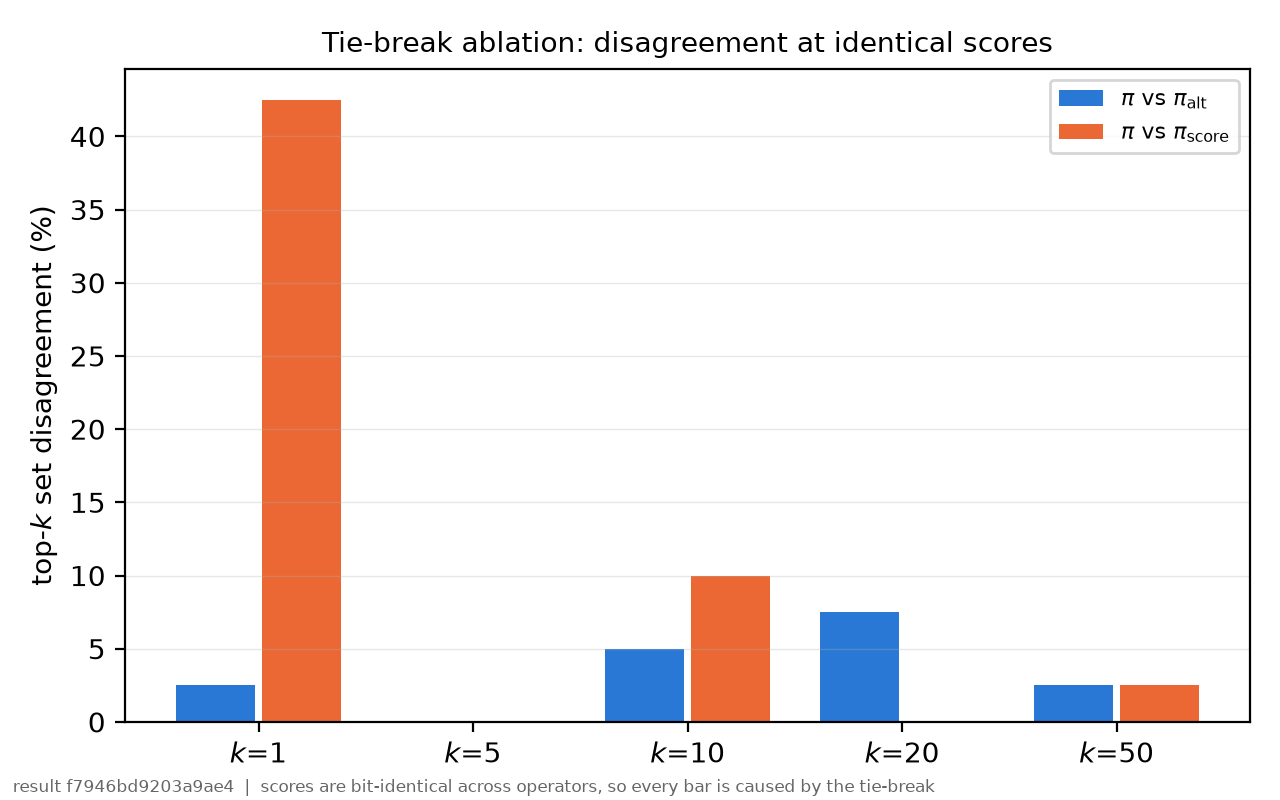
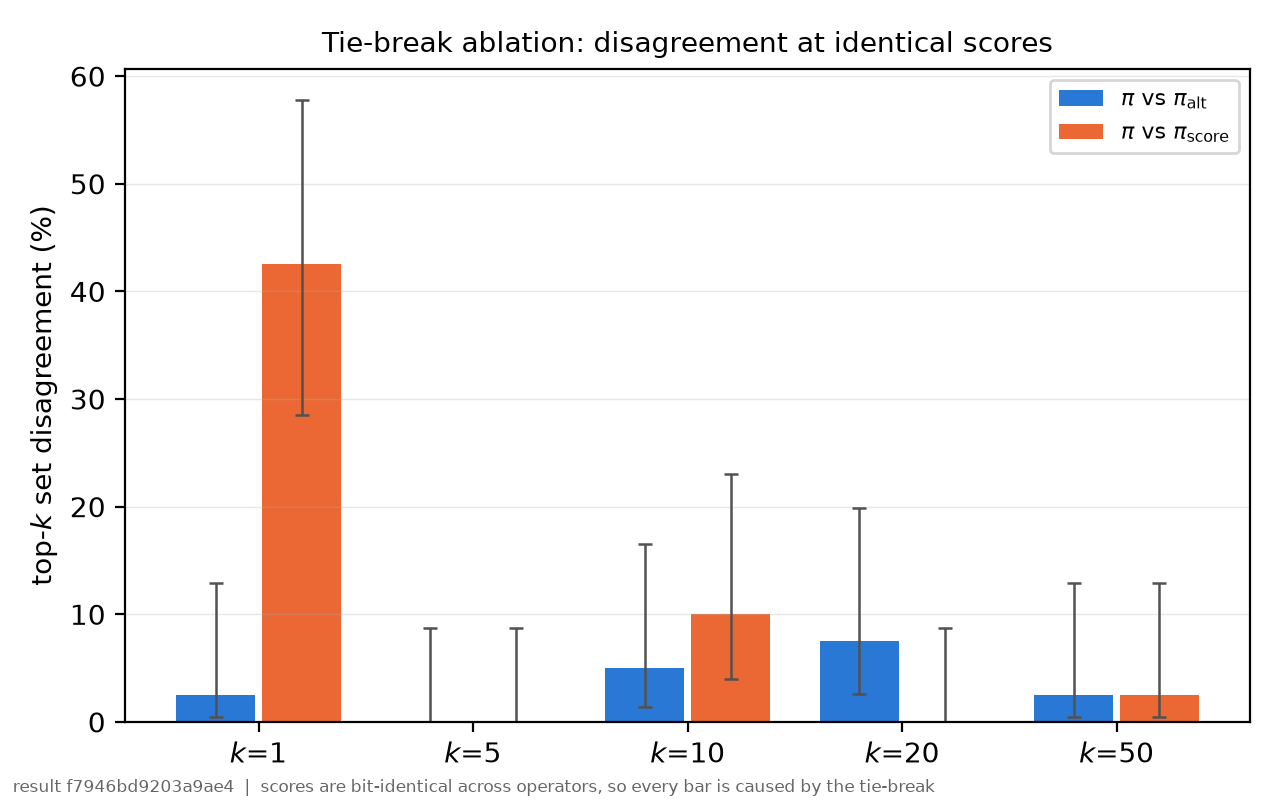
fix(figures): show the uncertainty, and make the log axes read as rulers

diff --git a/scripts/make_figures.py b/scripts/make_figures.py
@@ -81,6 +81,74 @@ _PAIR_LABELS = {
 }
 
 
+def _contiguous_runs(populated: list[bool]) -> list[list[int]]:
+    """Index runs of consecutive empty bands, for shading.
+
+    Shading each empty band separately leaves white seams between them that read
+    as slots holding something. Spanning first-to-last empty index instead is
+    simpler and wrong: it would shade over a populated band whenever the empty
+    ones are not contiguous. They happen to be on this corpus, which is the
+    finding rather than something to rely on.
+    """
+    runs: list[list[int]] = []
+    for position, ok in enumerate(populated):
+        if ok:
+            continue
+        if runs and runs[-1][-1] == position - 1:
+            runs[-1].append(position)
+        else:
+            runs.append([position])
+    return runs
+
+
+def _series_handles(ks: list[int]) -> list:
+    """One legend proxy per k, built from the series list rather than from what was
+    drawn.
+
+    Labelling inside the plotting loop omitted k=5 entirely: its only appearance is
+    in the separated band, and the label was attached in the exact-tie band, where
+    k=5 has no queries. The series was on the chart and missing from the key.
+    """
+    import matplotlib.pyplot as plt
+
+    return [
+        plt.Line2D(
+            [],
+            [],
+            marker="o",
+            linestyle="none",
+            markersize=6,
+            markerfacecolor=_SERIES[i % len(_SERIES)],
+            markeredgecolor="white",
+            label=f"$k$={k}",
+        )
+        for i, k in enumerate(ks)
+    ]
+
+
+def _wilson(successes: int, trials: int, z: float = 1.96) -> tuple[float, float]:
+    """95% Wilson score interval for a proportion, as percentages.
+
+    Every rate in these reports comes from a small sample: the ablation grid is 40
+    queries, and a stratified cell can hold one. A bare point estimate says 100%
+    where the evidence is one query out of one, whose interval runs from 21% to
+    100%. Drawing the estimate without the interval asserts a precision the run
+    does not have, which is the one thing these figures exist not to do.
+
+    Wilson rather than the normal approximation: it does not run below 0 or above
+    100, and it stays sensible at 0 and n successes, which is exactly where these
+    counts sit. Reported at 95%, two-sided.
+    """
+    if trials <= 0:
+        return (math.nan, math.nan)
+    p_hat = successes / trials
+    denominator = 1.0 + z * z / trials
+    centre = (p_hat + z * z / (2.0 * trials)) / denominator
+    spread = z * math.sqrt(p_hat * (1.0 - p_hat) / trials + z * z / (4.0 * trials * trials))
+    spread /= denominator
+    return (100.0 * max(0.0, centre - spread), 100.0 * min(1.0, centre + spread))
+
+
 def _uniform_log_minor(axis) -> None:
     """Put a log axis's minor ticks at half-decades, so every mark is equidistant.
 
@@ -626,12 +694,27 @@ def fig_ablation(record: dict, out: Path) -> bool:
     for i, pair in enumerate(pairs):
         values = [100.0 * rates[pair][k]["rate"] for k in ks]
         positions = [x + i * width for x in range(len(ks))]
+        # 40 queries per cell, so the interval is wide enough to change the
+        # reading: the tallest bar here is 42.5% and its interval spans 28 to 58.
+        # Without it the chart invites a comparison between bars that the sample
+        # cannot support.
+        bounds = [
+            _wilson(round(rates[pair][k]["rate"] * rates[pair][k]["n"]), rates[pair][k]["n"])
+            for k in ks
+        ]
+        errors = [
+            [v - lo for v, (lo, _) in zip(values, bounds, strict=True)],
+            [hi - v for v, (_, hi) in zip(values, bounds, strict=True)],
+        ]
         axes.bar(
             positions,
             values,
             width=width * 0.92,  # a surface gap between adjacent bars
             label=_PAIR_LABELS.get(pair, pair.replace("_", " ")),
             color=_SERIES[i % len(_SERIES)],
+            yerr=errors,
+            capsize=2.5,
+            error_kw={"ecolor": _MUTED, "elinewidth": 0.9, "capthick": 0.9},
         )
 
     axes.set_xticks([x + width * (len(pairs) - 1) / 2 for x in range(len(ks))])
@@ -708,19 +791,7 @@ def fig_stratified(record: dict, out: Path) -> bool:
     # once from any pair and is identical in both panels.
     populated = [any(census.get((k, band), 0) for k in ks) for band, _ in _BANDS]
 
-    # Shaded per contiguous run, not per band: separate spans leave white seams
-    # between them that read as slots holding something. Spanning first-to-last
-    # empty index instead would be simpler and wrong, since it would shade over a
-    # populated band whenever the empty ones are not contiguous. They happen to be
-    # on this corpus, which is the finding rather than something to rely on.
-    runs: list[list[int]] = []
-    for position, ok in enumerate(populated):
-        if ok:
-            continue
-        if runs and runs[-1][-1] == position - 1:
-            runs[-1].append(position)
-        else:
-            runs.append([position])
+    runs = _contiguous_runs(populated)
 
     for axes, pair in zip(axes_list, pairs, strict=True):
         rows = {(r["k"], r["band"]): r for r in strata[pair]}
@@ -735,8 +806,14 @@ def fig_stratified(record: dict, out: Path) -> bool:
                     continue
                 # Area proportional to n, so a rate resting on one query cannot
                 # look like one resting on forty.
+                x = position + (series - (len(ks) - 1) / 2) * 0.19
+                # The interval matters more here than anywhere: a cell can hold a
+                # single query, where 100% and 21% are the same evidence. Marker
+                # area already shows n; the whisker shows what n buys.
+                lo, hi = _wilson(row["n_disagree"], row["n"])
+                axes.plot([x, x], [lo, hi], color=_MUTED, linewidth=0.9, zorder=2)
                 axes.scatter(
-                    [position + (series - (len(ks) - 1) / 2) * 0.19],
+                    [x],
                     [100.0 * row["rate"]],
                     s=14.0 + 2.4 * row["n"],
                     color=_SERIES[series % len(_SERIES)],
@@ -765,24 +842,7 @@ def fig_stratified(record: dict, out: Path) -> bool:
         axes.set_xticks(range(len(_BANDS)))
         axes.set_xticklabels([label for _, label in _BANDS], rotation=35, ha="right", fontsize=8)
 
-    # Proxy handles, one per k, built from the series list rather than from what
-    # happened to be drawn. Labelling inside the loop omitted k=5 entirely: its
-    # only appearance is in the separated band, and the label was attached in the
-    # exact-tie band, where k=5 has no queries. The series was on the chart and
-    # missing from the legend.
-    handles = [
-        plt.Line2D(
-            [],
-            [],
-            marker="o",
-            linestyle="none",
-            markersize=6,
-            markerfacecolor=_SERIES[i % len(_SERIES)],
-            markeredgecolor="white",
-            label=f"$k$={k}",
-        )
-        for i, k in enumerate(ks)
-    ]
+    handles = _series_handles(ks)
     axes_list[0].set_ylim(-6.0, 106.0)
     axes_list[0].set_ylabel("top-$k$ set disagreement (%)")
     axes_list[-1].legend(
@@ -821,8 +881,8 @@ def fig_stratified(record: dict, out: Path) -> bool:
     _stamp(
         figure,
         f"result {record['result_digest'][:16]}  |  {tau_note}"
-        f"{n_disagree} disagreements among {n_separated} query-k observations "
-        f"whose scores were separated",
+        f"{n_disagree} of {n_separated} separated query-k observations disagree "
+        f"(95% upper bound {_wilson(n_disagree, n_separated)[1]:.1f}%)",
     )
     figure.tight_layout(rect=(0, 0.02, 1, 0.96))
     figure.savefig(out, dpi=200)
